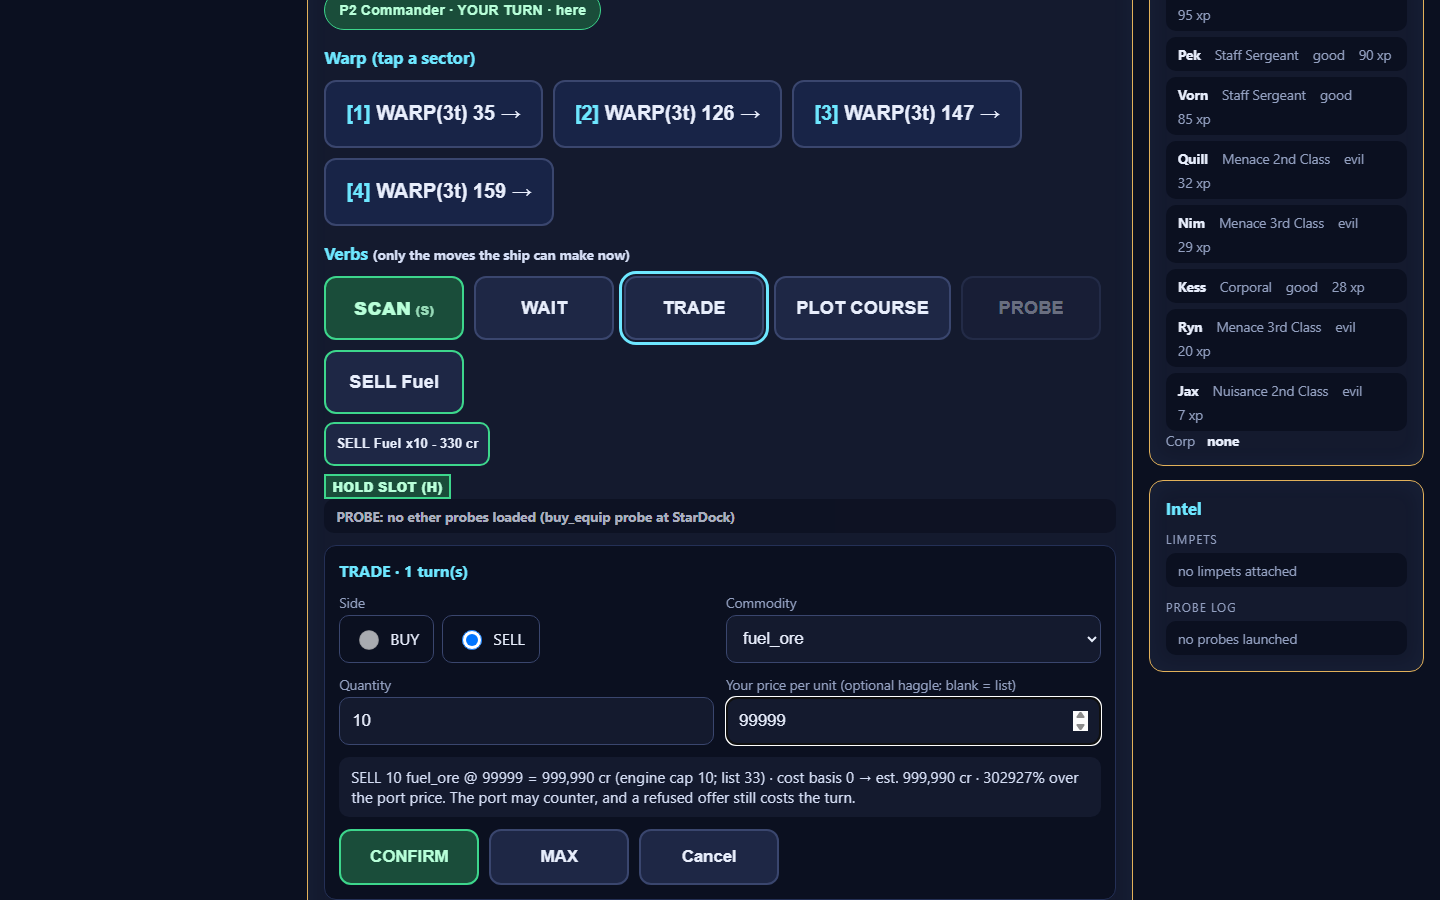
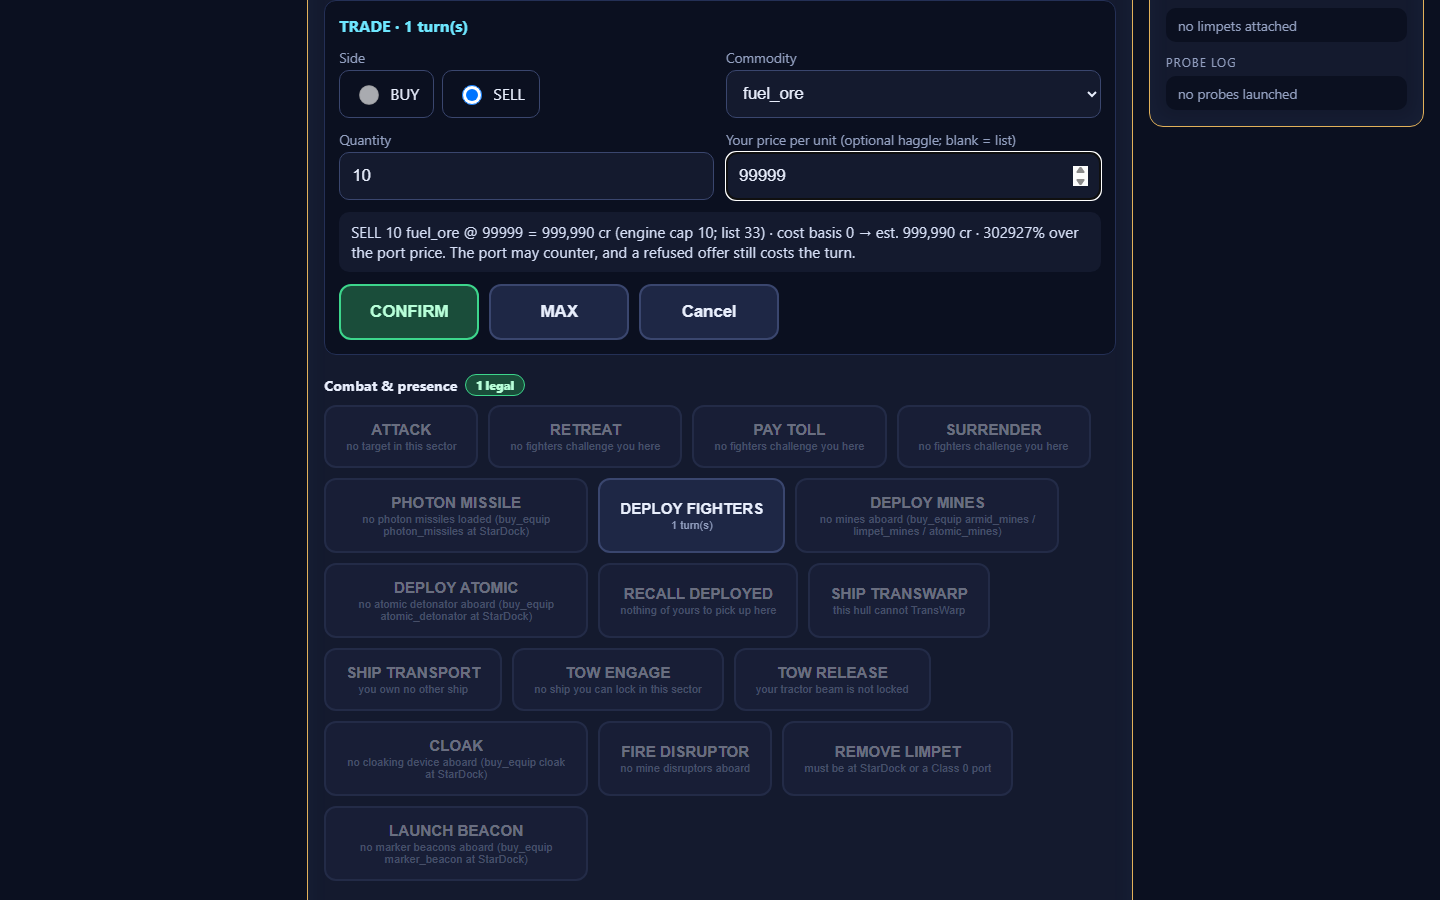
Record the play-fix checks before Batch I.

diff --git a/docs/plans/cockpit-play-fixes-gate-v1.md b/docs/plans/cockpit-play-fixes-gate-v1.md
@@ -1,0 +1,11 @@
+# cockpit-play-fixes-gate-v1
+
+Light check of the Game 8 play-fix slices. No engine change.
+
+Targeted tests, 11 passed: plot confirm, landing, Terra form, planet dividend, the minor wording, and the route-cost chip.
+
+Shots already saved: `docs/playtests/cockpit-play-fixes/plan-only.png` and `haggle-preview.png`.
+
+The bank pin and both 10-day digests were run on 437f7be, the parent of this note. This note does not change the engine or the cockpit script. Pin 9b607d3dae940c0b1a69f6d7. Digests 24863a3d and 98a47c8a, rejected 0/0.
+
+The full suite and the 30-day digests wait for the Batch I gate.
